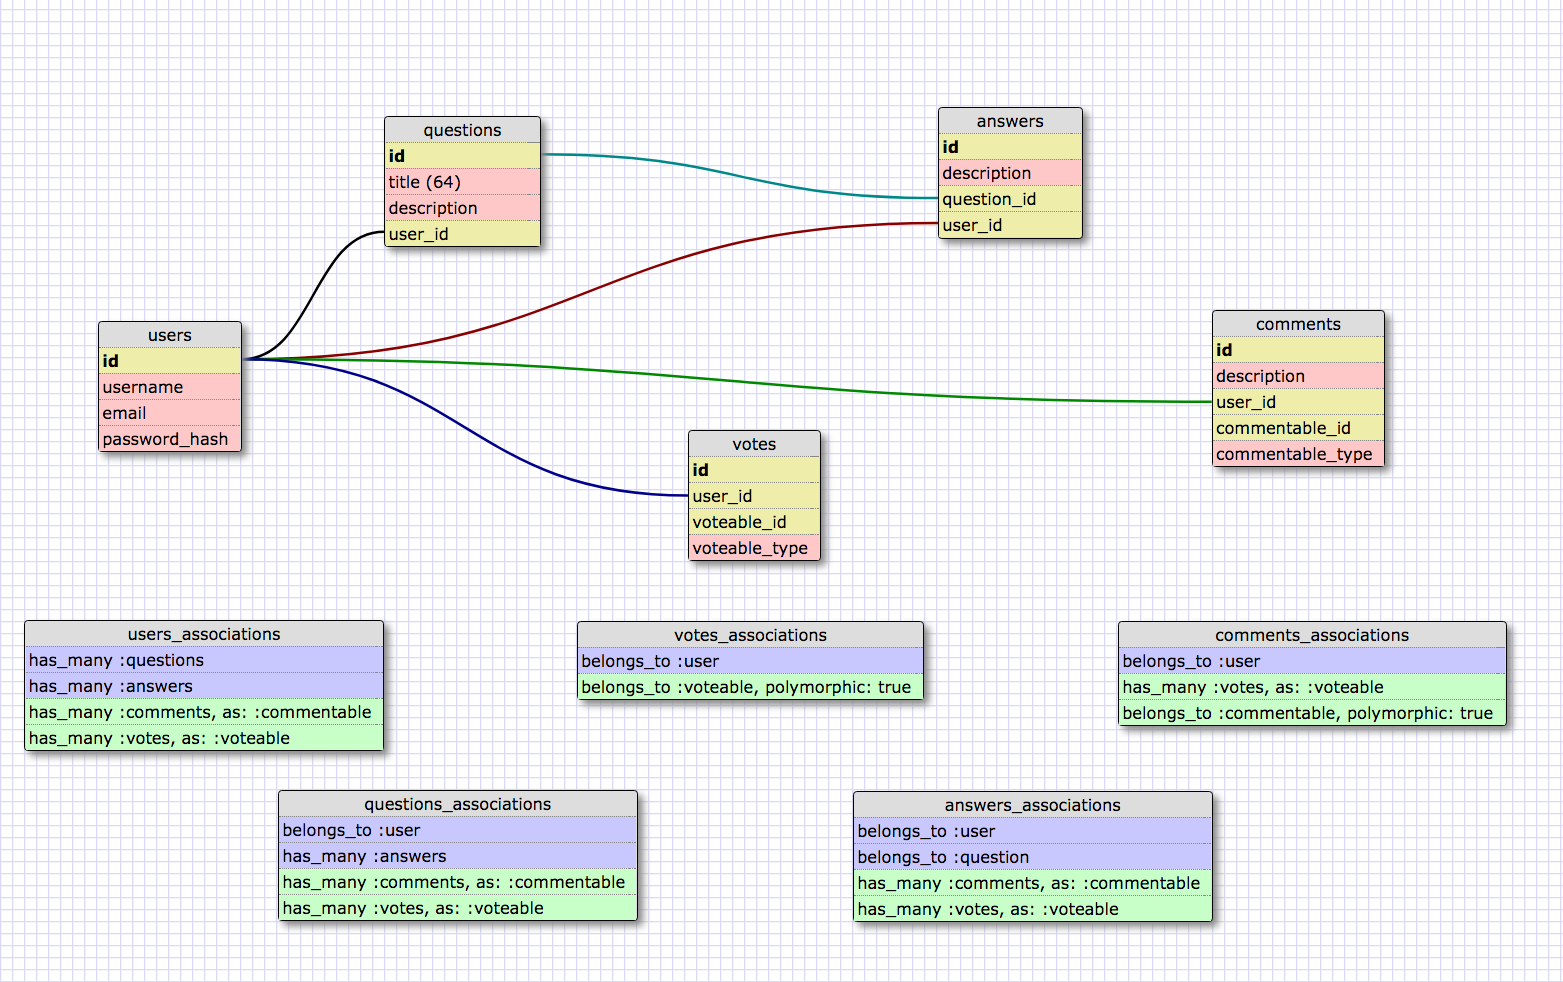
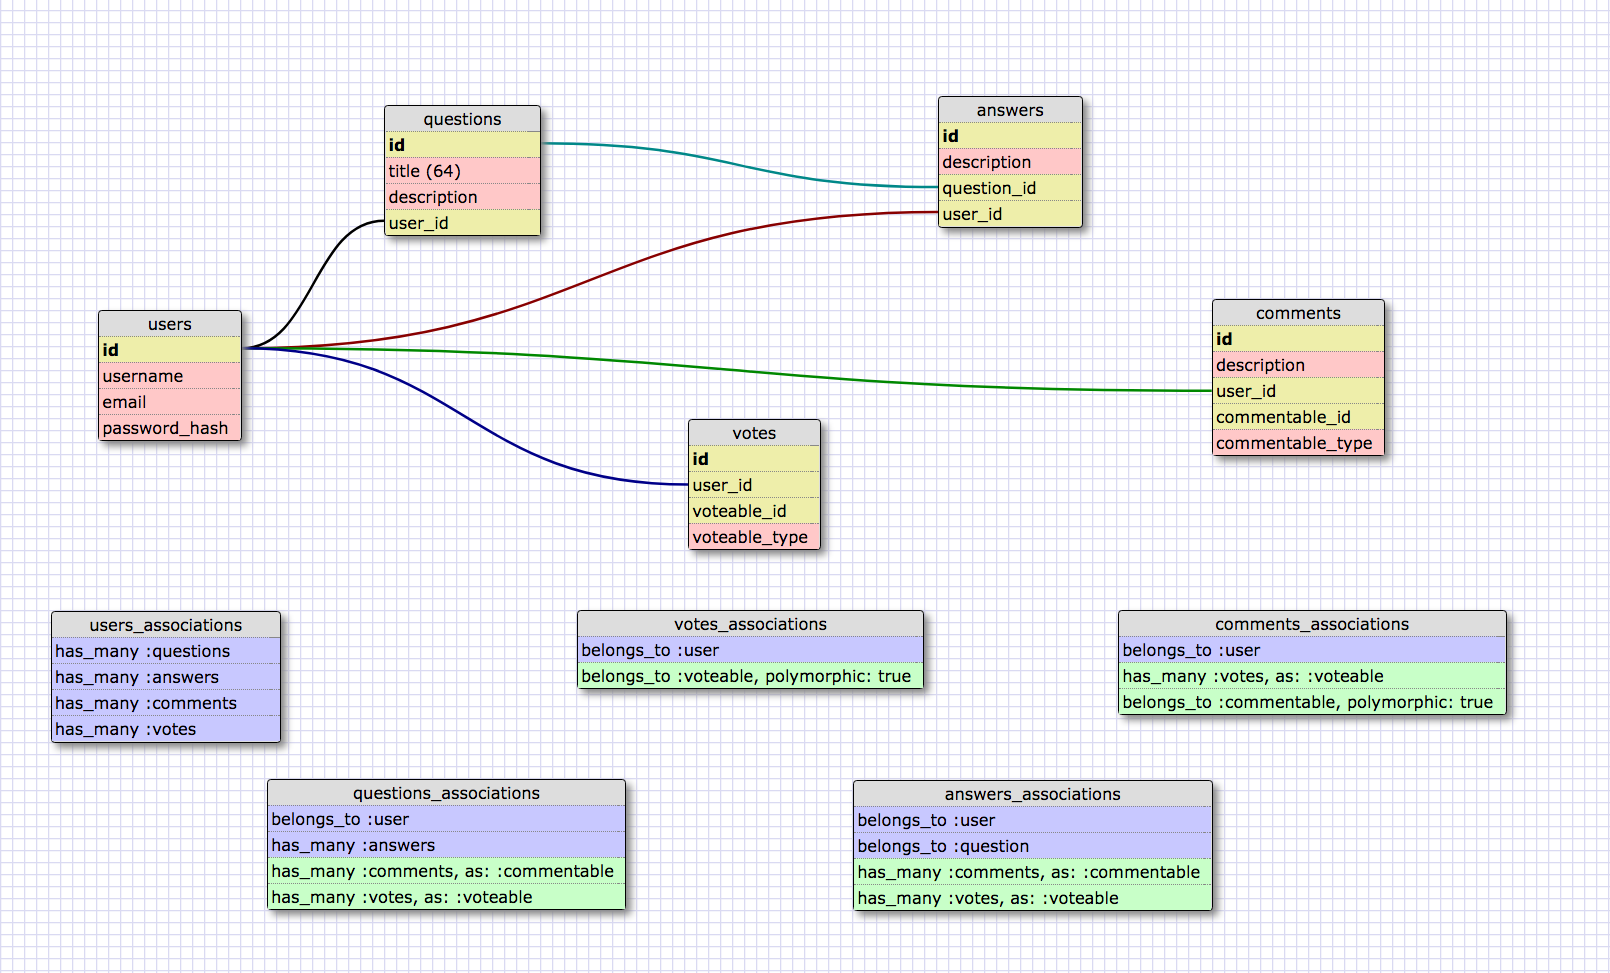
Fix errors in seed file and update polymorphic association schema

diff --git a/db/seeds.rb b/db/seeds.rb
@@ -5,16 +5,8 @@ Comment.delete_all
 Question.delete_all
 Answer.delete_all
 
-# Create variable to run loop for a vote on comment
-commentVote = 5.times do |i|
-  v = Vote.create(user_id: u.id,
-    voteable_id: c.id,
-    voteable_type: Comment
-  )
-end
-
 # Create 20 users with associated questions, answers, comments, and votes
-20.times do
+5.times do
   u = User.create(username: Faker::Internet.user_name,
                   email: Faker::Internet.safe_email,
                   password: "password")
@@ -32,7 +24,13 @@ end
           commentable_id: q.id,
           commentable_type: Question
       )
-      commentVote
+
+      5.times do |i|
+        v = Vote.create(user_id: u.id,
+          voteable_id: c.id,
+          voteable_type: Comment
+        )
+      end
     end
 
     5.times do |i|
@@ -41,31 +39,39 @@ end
         voteable_type: Question
       )
     end
-  end
 
-  # Create Answers with associated votes and comments and commentVotes
-  5.times do
-    a = Answer.create(description: Faker::Lorem.paragraph,
-      question_id: q.id,
-      user_id: u.id
-      )
-
+    # Create Answers with associated votes and comments and commentVotes
     5.times do
-      c = Comment.create(description: Faker::HowIMetYourMother.quote,
-          user_id: u.id,
-          commentable_id: a.id,
-          commentable_type: Answer
-      )
-      commentVote
+      a = Answer.create(description: Faker::Lorem.paragraph,
+        question_id: q.id,
+        user_id: u.id
+        )
+
+      5.times do
+        c = Comment.create(description: Faker::HowIMetYourMother.quote,
+            user_id: u.id,
+            commentable_id: a.id,
+            commentable_type: Answer
+        )
+
+        5.times do |i|
+          v = Vote.create(user_id: u.id,
+            voteable_id: c.id,
+            voteable_type: Comment
+          )
+        end
+      end
+
+      5.times do |i|
+       v = Vote.create(user_id: u.id,
+        voteable_id: a.id,
+        voteable_type: Answer
+        )
+      end
     end
 
-    5.times do |i|
-     v = Vote.create(user_id: u.id,
-      voteable_id: a.id,
-      voteable_type: Answer
-      )
-    end
   end
+
 
 end
 

diff --git a/app/models/user.rb b/app/models/user.rb
@@ -13,8 +13,6 @@ class User < ActiveRecord::Base
     self.password == new_password
   end
 
-  private
-
   def password
     @password ||= Password.new(password_hash)
   end
@@ -23,6 +21,8 @@ class User < ActiveRecord::Base
     @password = Password.create(new_password)
     self.password_hash = @password
   end
+
+  private
 
   def has_password
     if self.password == ""
